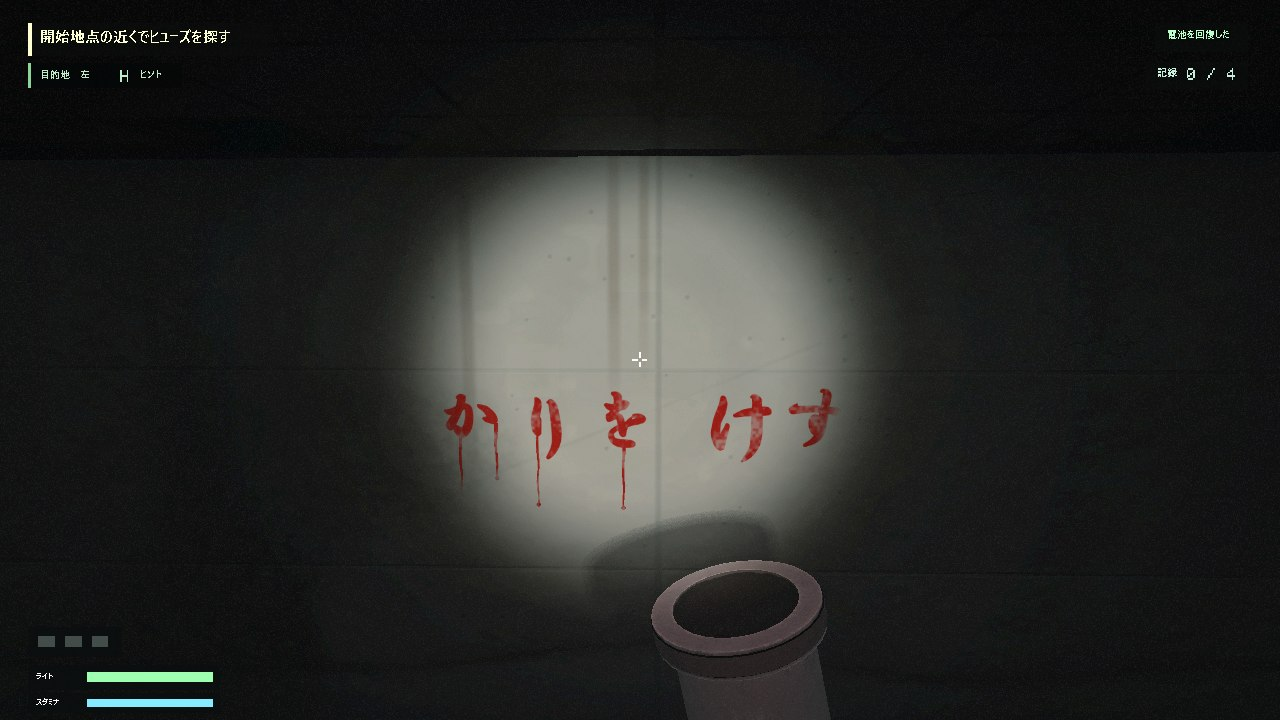
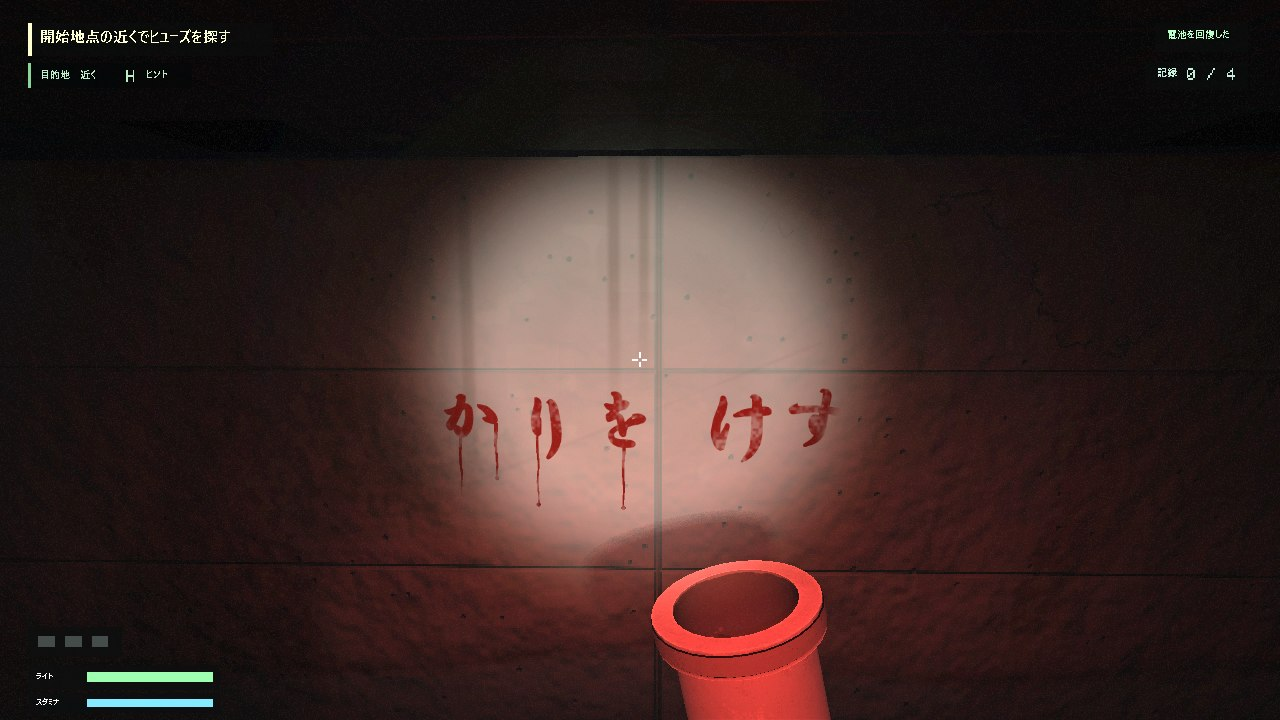
懐中電灯を消すとほとんど闇になるよう環境光を下げ、1面の通路と部屋に照明を14灯追加（停電中は赤い非常灯）。非常灯を明るくし、暗部でも光だまりの色が残るよう色調を調整

Changed region(s): [[0.2188, 0.4278, 0.875, 1.0], [0.0938, 0.0917, 0.125, 0.1222]]

diff --git a/Job_application_work_horror/Stage1Layout.cpp b/Job_application_work_horror/Stage1Layout.cpp
@@ -29,6 +29,7 @@
 
 #include <SimpleMath.h>
 #include <array>
+#include <iterator>
 #include <random>
 #include <string>
 #include <utility>
@@ -724,7 +725,7 @@ namespace Stage1Layout
         objects.firstFuse = item1;
         objects.secondFuse = item2;
         objects.thirdFuse = item3;
-        // 通路を灯具で埋めず、曲がり角の暗がりにだけ通常の器具を補う。
+        // 曲がり角の暗がりを補う通常の器具（下で、通路と部屋の天井にも照明を一通り並べている）
         const auto addCeilingFixture = [&builder](const char* name, float x, float z, float offset)
         {
             CeilingLight* light = builder.Create<CeilingLight>(name);
@@ -737,6 +738,34 @@ namespace Stage1Layout
         CeilingLight* rightEntranceLight = addCeilingFixture("Stage1RightEntranceLight", 125.0f, -88.0f, 8.6f);
         CeilingLight* westEntranceLight = addCeilingFixture("Stage1WestEntranceLight", -190.0f, -20.0f, 9.7f);
         CeilingLight* mainPowerLight = addCeilingFixture("Stage1MainPowerLight", -180.0f, 20.0f, 10.9f);
+
+        // 通路と部屋の天井に、照明を一通り並べている。懐中電灯を消すとほとんど何も見えないため、
+        // 足した照明はすべて非常回路につなぎ、停電中も赤い非常灯の光だまりが点々と続くようにしている（電力が戻ると普通の照明になる）。
+        // 照明の間には暗がりが残る間隔にしている（P.T. やサイレントヒルのように、光だまりと闇が交互に続く）。
+        struct ExtraFixture { const char* Name; float X; float Z; bool Emergency; };
+        const ExtraFixture extraFixtures[] =
+        {
+            { "Stage1HallCenterLight", 0.0f, -75.0f, true },        // 開始地点と中央ホールの間
+            { "Stage1HallWestLight", -120.0f, -20.0f, true },        // 中央ホールの西
+            { "Stage1HallEastLight", 120.0f, -20.0f, true },         // 中央ホールの東
+            { "Stage1HallFarEastLight", 190.0f, 10.0f, true },      // 中央ホールの東の奥
+            { "Stage1LeftStorageInnerLight", -180.0f, -150.0f, true },  // 左の倉庫の奥
+            { "Stage1RightStorageInnerLight", 185.0f, -150.0f, true }, // 右の倉庫の奥
+            { "Stage1CenterStorageLight", 0.0f, -105.0f, true },     // 開始地点の部屋の入口
+            { "Stage1CorridorSouthLight", 0.0f, 55.0f, true },      // 廊下の入口
+            { "Stage1CorridorMidLight", 0.0f, 160.0f, true },        // 廊下の中ほど
+            { "Stage1ArchiveWestLight", -180.0f, 75.0f, true },     // 書類保管室の西
+            { "Stage1DebrisLight", -130.0f, 265.0f, true },          // 崩れた資材置き場
+            { "Stage1ExitHallLight", 0.0f, 300.0f, true },          // 脱出のホールの奥
+            { "Stage1WestWingSouthLight", -345.0f, 35.0f, true },    // 西棟の西の壁際
+            { "Stage1SouthWestHallWestLight", -345.0f, -210.0f, true }, // 南西の広間の奥
+        };
+        for (std::size_t index = 0; index < std::size(extraFixtures); ++index)
+        {
+            const ExtraFixture& fixture = extraFixtures[index];
+            CeilingLight* light = addCeilingFixture(fixture.Name, fixture.X, fixture.Z, 12.3f + static_cast<float>(index) * 0.77f);
+            light->SetEmergencyLight(fixture.Emergency, 12.3f + static_cast<float>(index) * 0.77f);
+        }
 
         // 進み具合ごとに、進む先の照明を手前から奥の順に並べている。色や明るさは変えず、そのうち1灯だけをちかちかさせる。
         objects.routeLights[static_cast<std::size_t>(Stage1RouteLight::StartSearch)] = { light1 };

diff --git a/Job_application_work_horror/CeilingLight.cpp b/Job_application_work_horror/CeilingLight.cpp
@@ -258,9 +258,10 @@ void CeilingLight::Update()
             std::sin(flickerTime * 29.0f);
         const bool shortBlackout =
             std::fmod(flickerTime, 4.3f) < 0.12f;
+        // 懐中電灯を消すとほとんど闇なので、赤い光だまりが見えるよう、前より明るくしている
         targetBrightness = shortBlackout
             ? 0.015f
-            : 0.22f + (unstable + 1.0f) * 0.08f;
+            : 0.48f + (unstable + 1.0f) * 0.10f;
     }
 
     // 進む先の候補の照明。停電中も非常回路の弱い光を残し、候補どうしは同じ明るさ・同じ色にしている。
@@ -270,7 +271,7 @@ void CeilingLight::Update()
     {
         if (!powerRestored)
         {
-            targetBrightness = (m_IsEmergencyLight ? 0.24f : 0.14f) +
+            targetBrightness = (m_IsEmergencyLight ? 0.56f : 0.36f) +
                 std::sin(m_Time * 11.7f + m_FlickerOffset) * 0.006f;
         }
         if (!m_RouteFlickerEnabled)
@@ -397,9 +398,9 @@ void CeilingLight::Draw(Camera* camera)
     else
     {
         panel.Emission = Color(
-            0.75f * m_Brightness,
+            1.60f * m_Brightness,
+            0.050f * m_Brightness,
             0.025f * m_Brightness,
-            0.015f * m_Brightness,
             1.0f);
     }
     panel.TextureEnable = FALSE;
@@ -439,7 +440,7 @@ void CeilingLight::CollectPointLights(std::vector<ENVIRONMENT_POINT_LIGHT>& ligh
     // 発光パネルより少し下へ光源を置き、天井に埋もれず室内を照らすようにしている。
     pointLight.PositionRange = Vector4(
         m_Position.x, m_Position.y - 3.0f, m_Position.z,
-        powerRestored ? 140.0f : 115.0f);
+        powerRestored ? 140.0f : 135.0f);
 
     // 進行先の器具も、周囲と同じ非常灯・蛍光灯の色で照らす。
     // 電力が戻っても、古い蛍光灯のように少し緑がかった弱い光にし、照明と照明の間に暗がりが残るようにしている。
@@ -456,8 +457,9 @@ void CeilingLight::CollectPointLights(std::vector<ENVIRONMENT_POINT_LIGHT>& ligh
     }
     else
     {
+        // 停電中の非常灯：懐中電灯を消すとほとんど闇なので、赤い光だまりが道しるべになるよう強めにしている
         pointLight.ColorIntensity = Vector4(
-            1.0f, 0.055f, 0.025f, brightness * 1.05f);
+            1.0f, 0.055f, 0.025f, brightness * 3.4f);
     }
     lights.push_back(pointLight);
 }

diff --git a/Job_application_work_horror/CaptureMode.cpp b/Job_application_work_horror/CaptureMode.cpp
@@ -80,6 +80,8 @@ namespace
         { 19.5f, Vector3(-60.0f, FloorY, -88.0f), YawToward(-60.0f, -88.0f, -150.0f, -140.0f), 0.0f, nullptr, false },
         { 24.0f, Vector3(-150.0f, FloorY, -110.0f), 0.0f, -0.26f, L"03_1面_左の倉庫の壁の文字", false },
         { 28.0f, Vector3(-60.0f, FloorY, -30.0f), YawToward(-60.0f, -30.0f, 0.0f, 40.0f), 0.0f, nullptr, false },
+        // 中央ホールで懐中電灯を消した画面（天井の照明の光だまりの外は、ほとんど闇）
+        { 29.0f, Vector3(-45.0f, FloorY, -5.0f), YawToward(-45.0f, -5.0f, 120.0f, -20.0f), 0.08f, L"02c_1面_懐中電灯を消した中央ホール", false },
         { 32.0f, Vector3(0.0f, FloorY, 70.0f), 0.0f, 0.0f, nullptr, false },
         { 36.5f, Vector3(12.0f, FloorY, 112.0f), Pi * 0.5f, -0.05f, L"04_1面_暗証番号の扉", false },
         { 41.0f, Vector3(0.0f, FloorY, 185.0f), 0.0f, 0.0f, nullptr, false },
@@ -133,6 +135,9 @@ namespace
     // 2面: ループ廊下 → 時計 → 肖像画 → ロッカー（中に隠れる）→ 奥の扉 → 鏡（普段・鏡の異変で人影が映る・振り返ると誰もいない）
     // 鏡の異変は、MirrorAnomalyRequestTime にデバッグの操作（SceneDebugAction::ShowMirrorAnomaly）で出している。
     constexpr float MirrorAnomalyRequestTime = 40.0f;
+    // 1面で、この時刻の間だけ懐中電灯を消している（消したときの暗さを写すため）
+    constexpr float Stage1FlashlightOffStart = 28.5f;
+    constexpr float Stage1FlashlightOffEnd = 29.4f;
     // 濡れた足跡の場面の前に、2周目へ進めている（誰かの足跡は2周目から出る）
     constexpr float SecondLoopRequestTime = 50.5f;
     // 肖像画の場面の前に、肖像画の異変を出している
@@ -842,7 +847,8 @@ namespace Tools::CaptureMode
         {
             player->AddBattery(-75.0f);
         }
-        player->SetFlashlightOn(true);
+        player->SetFlashlightOn(!(scene == SceneName::Stage &&
+            g_TourTime >= Stage1FlashlightOffStart && g_TourTime < Stage1FlashlightOffEnd));
         camera->SetCameraDirection(pose.Yaw);
         camera->SetCameraPitch(pose.Pitch);
     }

diff --git a/Job_application_work_horror/Player.cpp b/Job_application_work_horror/Player.cpp
@@ -364,16 +364,16 @@ void Player::Update()
             m_LightDiffuseG * (1.0f - batteryStress * 0.06f - batteryWeakness * 0.10f),
             m_LightDiffuseB * (1.0f - batteryStress * 0.18f - batteryWeakness * 0.32f),
             1.0f);
-        // 懐中電灯を点けている間は、光の外を暗く沈め、照らした所だけが見えるようにしている
-        light.Ambient = Color(0.150f, 0.152f, 0.150f, 1.0f);
+        // 懐中電灯を点けている間は、光の外を暗く沈め、照らした所（と天井の照明の光だまり）だけが見えるようにしている
+        light.Ambient = Color(0.070f, 0.072f, 0.072f, 1.0f);
     }
     else
     {
         light.Diffuse = Color(0.0f, 0.0f, 0.0f, 1.0f);
         light.Ambient = Color(
-            0.190f, // 懐中電灯を消しても、壁と進む方向をかろうじて見分けられる最低限の明るさ
-            0.194f,
-            0.198f,
+            0.045f, // 懐中電灯を消すと、照明の光だまりの外はほとんど闇（壁の輪郭がかすかに分かる程度）
+            0.047f,
+            0.050f,
             1.0f
         );
     }
@@ -381,7 +381,8 @@ void Player::Update()
     // 電力が戻ったら、環境光を少し明るくしている（それでも照明の間には暗がりが残る程度にしている）
     if (Core::Game::GetInstance()->IsPowerRestored())
     {
-        light.Ambient = Color(0.200f, 0.205f, 0.212f, 1.0f);
+        light.Ambient = Color(light.FlashlightEnabled ? 0.095f : 0.070f, light.FlashlightEnabled ? 0.097f : 0.072f,
+            light.FlashlightEnabled ? 0.100f : 0.076f, 1.0f);
     }
 
     Renderer::SetLight(light);

diff --git a/README.md b/README.md
@@ -120,6 +120,7 @@ Debug構成では `F1` でImGuiデバッグ画面を表示できます。
 - ホラー向けの色調（`shader/horrorGrade.hlsli`。壁・床・壁の文字で共通）。暗い所ほど色を抜き（彩度55%）、とても暗い所をさらに沈めて、光の届かない所を灰色ではなく闇にしている。影は病的な緑がかった暗い青、明るい所は黄ばんだ古い蛍光灯の色に寄せ、遠くの霧も灰色のもやではなく闇に溶ける色にしている。環境光を下げ、懐中電灯の光の輪を狭め（11〜26度）、電力が戻った後の天井照明も弱い緑がかった光にして、照らした所とその間の闇の差をはっきりさせている。画面の端の周辺減光を強め、暗い所ほどフィルムの粒が目立つようにしている
 - 床の近くに溜まって流れる霧（`shader/horrorMist.hlsli`。壁・床で共通）。高さで薄くなる霧の量を、視線に沿って解析的に積分し、時間で流れる2層のノイズで筋やかたまりにしている。懐中電灯は目の位置にあるので、視線の方向の光の強さを霧全体に使い、光の円錐の中だけ霧が白く浮かぶ（外は闇に近い色）。懐中電灯の光の筋（ボリュームライト）にも、逆向きにゆっくり流れる2つのノイズで煙のむらを足している
 - サイレントヒルと P.T. を参考にした見た目の調整。懐中電灯の光は中心が少し青みのある白で、縁へ行くほど黄色くにじむ（`GetFlashlightTint`）。部屋全体にも薄い霧を漂わせ、懐中電灯を向けた先が白くかすんで遠くが見通せないようにし、霧は近くの電球や非常灯の光を受けてその色でかすむ。2面の廊下の照明は暖かい白熱電球の色にし、電圧の揺れでときどきわずかに沈む（`CeilingLight::SetWarmBulb`）。水たまりの波は、おもりを小さく鋭くして、細い輪が何重にも広がるようにした。画面には、暗い粒と明るい粒の両方のフィルムの粒と、画面の端のわずかな色ずれを常に重ねている
+- 懐中電灯を消すと、照明の光だまりの外はほとんど闇になる（環境光を下げている）。1面は通路と部屋の天井に照明を一通り並べ（停電中は赤い非常灯の光だまりが点々と続く）、暗い所でも非常灯の赤や電球の橙の色が残るよう、色調の彩度の落とし方を緩めている
 - Compute Shaderによるタイルベースライティング（画面を16x16のタイルに分け、タイルごとに影響する点光源だけを計算。光源数の上限を8個から256個へ拡張。深度プリパスの深度からタイルの一番奥の深度を求め、壁の向こうの光源も外す）
 - 深度プリパス（Zプリパス）。不透明な壁・床・扉の深度だけを本描画と同じ頂点シェーダーで先に描き、隠れた画素の重いピクセルシェーダーを省く。本描画のGPU時間が2.3〜4.8msから1.3〜1.5msに減った（RTX 3050 Laptop、1920x1080。導入前後の画面を画素単位で比べて見た目が変わらないことを確認）
 - Compute Shaderによる自動露出。画面の明るさの対数平均（中央を重く）を1グループ256スレッドで求め、暗い所へはゆっくり・明るい所へは素早く目が慣れる。結果はGPUのバッファに置いたまま露出のシェーダーが読み、CPUへ読み戻さない

diff --git a/docs/AI_USAGE.md b/docs/AI_USAGE.md
@@ -76,6 +76,7 @@
 | グラフィックをホラー寄りにした（共通の色調 `horrorGrade.hlsli`：暗い所の彩度を落として沈め、影を緑がかった暗い青・明るい所を黄ばんだ蛍光灯の色に。霧を闇の色に、環境光・電力復旧後の照明を弱め、懐中電灯の光の輪を狭め、周辺減光と暗い所の粒を強め、信号盤と記録の目印の光を抑えた）。READMEの画像を作り直した | `shader/horrorGrade.hlsli`, `shader/litTexturePS.hlsl`, `shader/wetFloorPS.hlsl`, `shader/flashlightRevealPS.hlsl`, `shader/crtOverlayPS.hlsl`, `shader/signalPanelPS.hlsl`, `Player.cpp`, `CeilingLight.cpp`, `Stage2Layout.cpp`, `Stage2Scene.cpp`, `README.md`, `docs/images/*.jpg` | 色調と明るさの設計・撮影での比較 | 見た目の意見（グラフィックをもっとホラー寄りに） |
 | 水たまりの波紋をゆっくりにした（波の式の速さを約半分、減衰を弱め、足音の輪・水滴の輪・浸水した床と雨漏りの波も遅く）。床の近くに溜まって流れる霧を追加（高さの霧の解析的な積分と流れるノイズ、懐中電灯の円錐の中だけ白く浮かぶ）、光の筋に煙のむらを追加。READMEの画像を作り直した | `WaterRippleSimulation.cpp`, `GroundWaterEffects.cpp`, `shader/horrorMist.hlsli`, `shader/litTexturePS.hlsl`, `shader/wetFloorPS.hlsl`, `shader/volumetricFlashlightPS.hlsl`, `README.md`, `docs/images/*.jpg` | 速さと霧の設計・撮影での比較 | 見た目の意見（波紋が速すぎる、霧を入れてほしい） |
 | サイレントヒルと P.T. を参考に見た目を調整（懐中電灯の縁が黄色くにじむ光の色、部屋全体に漂う霧と、電球の光を受けてかすむ霧、2面の廊下を暖かい白熱電球の色にして電圧の揺れを追加、水たまりの波を細い輪が何重にも広がる形に、暗い粒と明るい粒のフィルムの粒と画面の端の色ずれを常に重ねる）。READMEの画像を作り直した | `shader/flashlightLighting.hlsli`, `shader/horrorMist.hlsli`, `shader/litTexturePS.hlsl`, `shader/wetFloorPS.hlsl`, `shader/crtOverlayPS.hlsl`, `CeilingLight.*`, `Stage2Layout.cpp`, `GroundWaterEffects.cpp`, `CaptureMode.cpp`, `README.md`, `docs/images/*.jpg` | 参考作品の見た目の分析・色と霧と粒の設計・撮影での比較 | 方針の選択（サイレントヒルと P.T. を参考にする） |
+| 懐中電灯を消すとほとんど闇になるよう環境光を下げ、1面の通路と部屋の天井に照明を14灯追加（停電中も赤い非常灯として灯る）。非常灯を明るくし、暗い所でも光だまりの色が残るよう色調を緩めた。自動撮影に懐中電灯を消した場面を追加し、READMEの画像を作り直した | `Player.cpp`, `Stage1Layout.cpp`, `CeilingLight.cpp`, `shader/horrorGrade.hlsli`, `CaptureMode.cpp`, `README.md`, `docs/images/*.jpg` | 照明の配置と明るさの設計・撮影での確認（非常灯の光が色調で消えていた原因の調査） | 見た目の意見（ライトがないと普通に見える、1面の照明が少ない） |
 
 ### 設計の整理・品質改善
 
